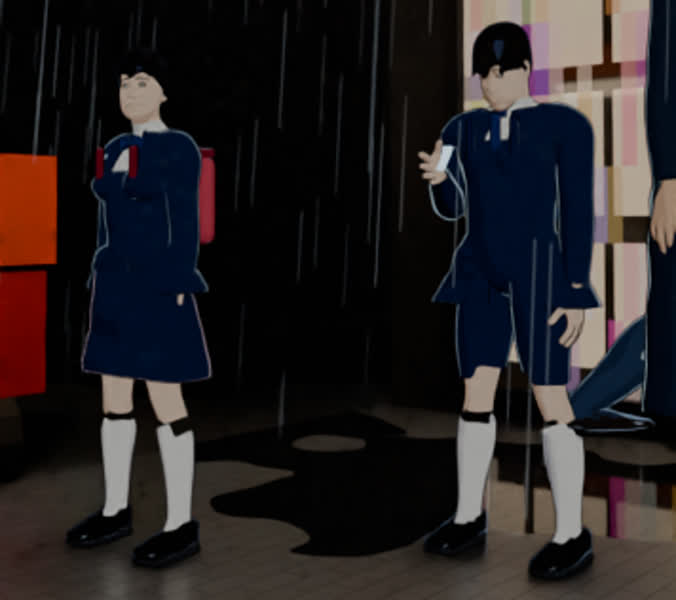
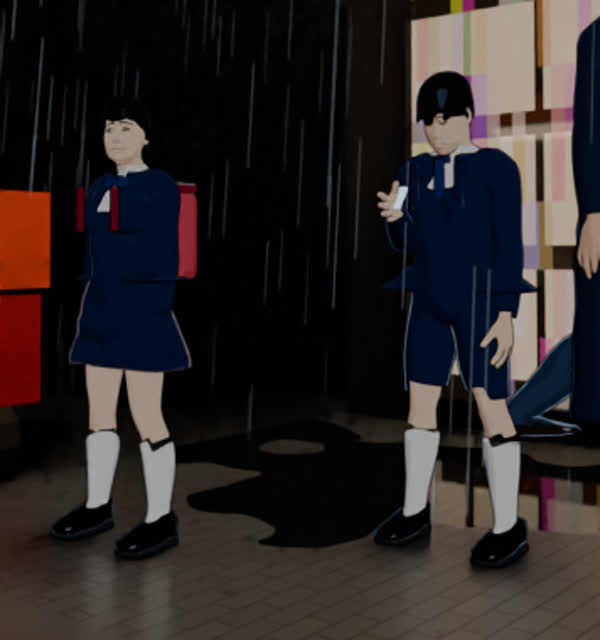
Kids: slim child bodies with no muscle targets
Claude-Session: https://claude.ai/code/session_01RmZcNKw4UE8v1k2Jyijr8e

diff --git a/lookdev/character_mh.py b/lookdev/character_mh.py
@@ -33,6 +33,11 @@ BODY = {
                  "universal-male-young-averagemuscle-minweight.target": 0.55,
                  "male-young-averagemuscle-averageweight-maxheight.target": 0.7,
                  "male-young-averagemuscle-averageweight-idealproportions.target": 1.0},
+    # children: slim, soft, no muscle definition (no muscle or height targets)
+    "kid_m": {"asian-male-young.target": 0.8, "caucasian-male-young.target": 0.2,
+              "universal-male-young-averagemuscle-minweight.target": 0.55},
+    "kid_f": {"asian-female-young.target": 0.8, "caucasian-female-young.target": 0.2,
+              "universal-female-young-averagemuscle-minweight.target": 0.5},
     "m_heavy": {"asian-male-young.target": 0.5, "african-male-young.target": 0.2, "caucasian-male-young.target": 0.3,
                 "universal-male-young-averagemuscle-maxweight.target": 0.55,
                 "male-young-averagemuscle-averageweight-idealproportions.target": 0.6},
@@ -490,7 +495,7 @@ def build(coll, location=(0, 0, 0), style=None, pose_mode="walk", heading=0.0):
     # --- brows ray-cast onto the forehead
     skin_bvh = bvhtree.BVHTree.FromPolygons([tuple(v) for v in V], skin_faces)
     bm = bmesh.new()
-    thick = 0.0034 if st["body"] != "f" else 0.0024
+    thick = 0.0034 if st["body"] not in ("f", "kid_f") else 0.0024
     for sx in (1, -1):
         ec = J("eye.L" if sx > 0 else "eye.R")
         rows = []

diff --git a/shorts/aura/film.py b/shorts/aura/film.py
@@ -65,11 +65,11 @@ COP = dict(manhwa_head=True, body="m", height=1.82, skin=("#f0cfb3", "#b48466"),
            head_yaw=-24, subsurf=1)
 # school uniforms (Korean primary school): navy blazer, white shirt, tie / bow, navy shorts or pleated skirt,
 # white knee socks, black school shoes, backpack
-KID1 = dict(body="f", height=1.28, skin=("#f3d6bf", "#bf9274"), hair="bob", hair_col="#1a1414",
+KID1 = dict(body="kid_f", height=1.28, skin=("#f3d6bf", "#bf9274"), hair="bob", hair_col="#1a1414",
             coat=("#1f2a4a", "#0b1124"), hem=0.9, open_skirt=True, coat_flare=(0.02, 0.04), top=("#f4f4f0", "#b8bcc6"), turtleneck=False,
             legs="skirt", leg_col=("#1f2a4a", "#0b1124"), skirt_hem=0.6, socks="#f6f6f2", tie=("bow", "#22336a"),
             backpack=("#c9475a", "#7a2232"), shoes=("#141416", "#2a2a2e"), sneakers=False, head_yaw=30, subsurf=1)
-KID2 = dict(KID1, body="m", height=1.34, hair="bangs", legs="shorts", tie=("tie", "#22336a"),
+KID2 = dict(KID1, body="kid_m", height=1.34, hair="bangs", legs="shorts", tie=("tie", "#22336a"),
             backpack=("#2c4a8a", "#14244a"), head_yaw=0)
 shop, _ = ch.build(C.PEOPLE_C, (6.9, 53.0, 0.15), SHOP, pose_mode="stand", heading=-90)
 cop, _ = ch.build(C.PEOPLE_C, (-5.5, 49.0, 0.15), COP, pose_mode="umbrella", heading=90)
